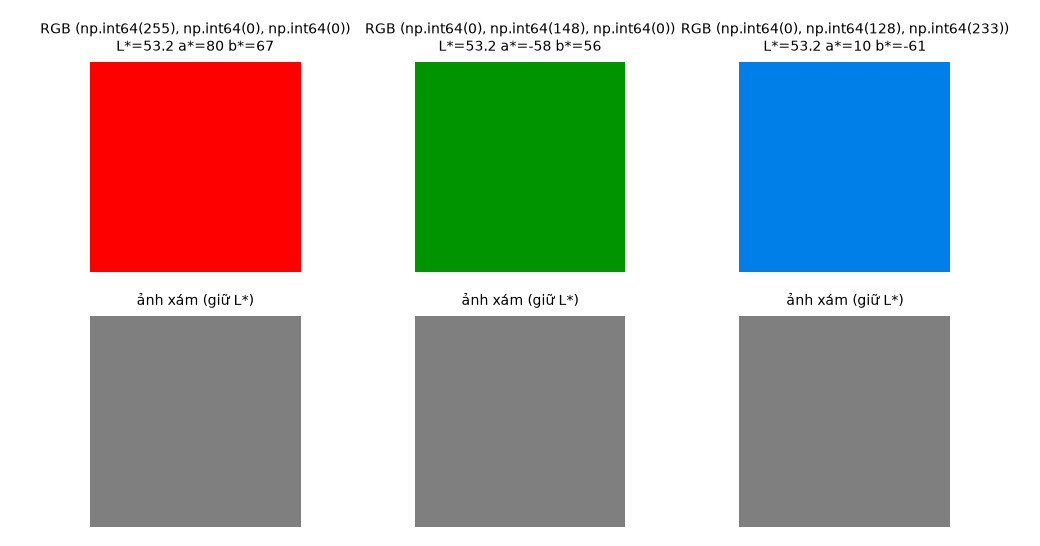
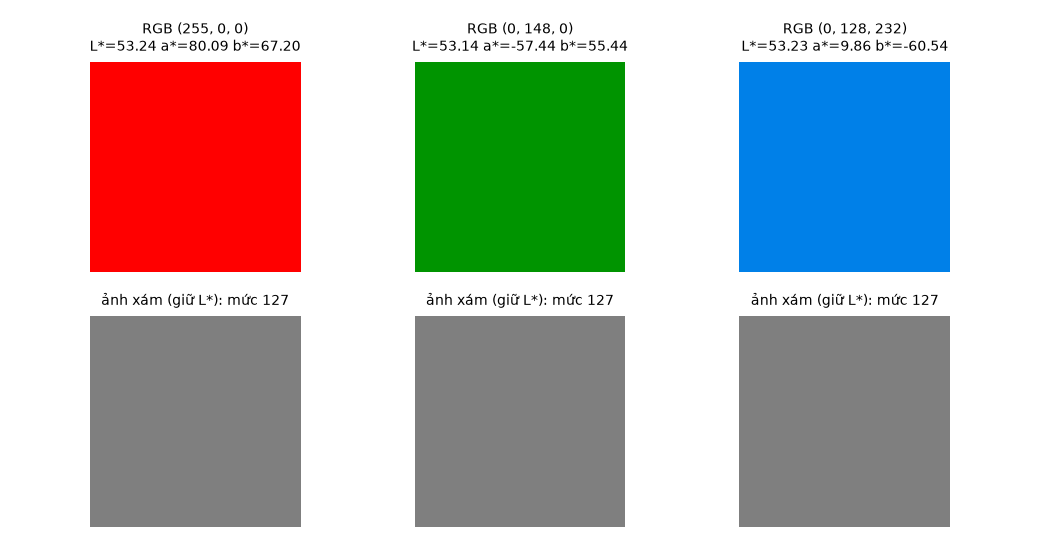
Use exact 8-bit colors in ambiguity example

diff --git a/src/evaluation/draw_figures.py b/src/evaluation/draw_figures.py
@@ -49,29 +49,17 @@ def pipeline():
 
 
 def ambiguity():
-    """Hai màu khác hẳn nhau nhưng cùng L* -> cùng một mức xám."""
-    red = np.array([[[1.0, 0.0, 0.0]]]); Lr = rgb_to_lab(red)[0, 0, 0]
-    # tìm màu lục và lam có cùng L*
-    def match(axis):
-        lo, hi = 0.0, 1.0
-        for _ in range(60):
-            mid = (lo + hi) / 2; c = np.zeros((1, 1, 3)); c[0, 0, axis] = mid
-            if axis == 2:
-                c[0, 0, 1] = mid * 0.55
-            if rgb_to_lab(c)[0, 0, 0] < Lr: lo = mid
-            else: hi = mid
-        c = np.zeros((1, 1, 3)); c[0, 0, axis] = mid
-        if axis == 2: c[0, 0, 1] = mid * 0.55
-        return c
-    cols = [red, match(1), match(2)]
+    """Ba màu 8 bit khác hẳn nhau nhưng L* gần bằng nhau -> cùng mức xám 8 bit."""
+    cols = [(255, 0, 0), (0, 148, 0), (0, 128, 232)]
     fig, axes = plt.subplots(2, 3, figsize=(8, 4.2))
     rows = []
-    for j, c in enumerate(cols):
-        lab = rgb_to_lab(c)[0, 0]; rgb8 = np.rint(c[0, 0] * 255).astype(int)
-        g = lab.copy(); g[1:] = 0; gray = lab_to_rgb(g[None, None])[0, 0]
-        axes[0, j].imshow(np.ones((20, 20, 3)) * c[0, 0]); axes[0, j].set_title(f"RGB {tuple(rgb8)}\nL*={lab[0]:.1f} a*={lab[1]:.0f} b*={lab[2]:.0f}", fontsize=8)
-        axes[1, j].imshow(np.ones((20, 20, 3)) * gray); axes[1, j].set_title("ảnh xám (giữ L*)", fontsize=8)
-        rows.append({"rgb": tuple(rgb8), "L": round(lab[0], 2), "a": round(lab[1], 2), "b": round(lab[2], 2)})
+    for j, rgb8 in enumerate(cols):
+        c = np.array(rgb8, float) / 255
+        lab = rgb_to_lab(c[None, None])[0, 0]
+        g = lab.copy(); g[1:] = 0; gray8 = int(np.rint(lab_to_rgb(g[None, None])[0, 0, 0] * 255))
+        axes[0, j].imshow(np.ones((20, 20, 3)) * c); axes[0, j].set_title(f"RGB {rgb8}\nL*={lab[0]:.2f} a*={lab[1]:.2f} b*={lab[2]:.2f}", fontsize=8)
+        axes[1, j].imshow(np.ones((20, 20, 3)) * gray8 / 255); axes[1, j].set_title(f"ảnh xám (giữ L*): mức {gray8}", fontsize=8)
+        rows.append({"rgb": rgb8, "L": round(lab[0], 2), "a": round(lab[1], 2), "b": round(lab[2], 2), "gray8": gray8})
     for a in axes.ravel(): a.axis("off")
     plt.tight_layout(); plt.savefig(os.path.join(FIG, "ambiguity.png"), dpi=130); plt.close(fig)
     pd.DataFrame(rows).to_csv(os.path.join(ROOT, "results", "ambiguity.csv"), index=False); print(rows)
